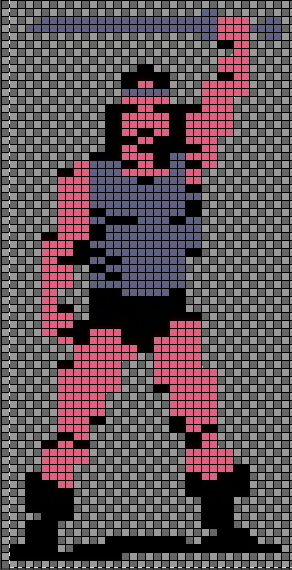
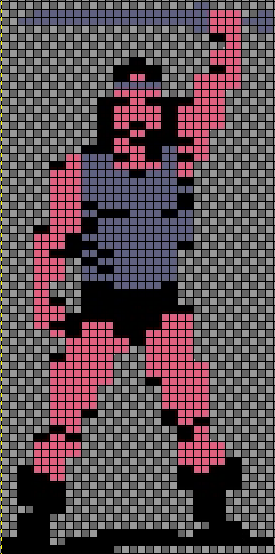
<- SwOrD & hEaD = dOnE ! ->

diff --git a/SCRIPT/style.css b/SCRIPT/style.css
@@ -1,8 +1,293 @@
 .container
 {
 	display: grid;
-	grid-gap: 1px;
+	grid-gap: 0px;
 	background-color: lightgrey;
 	height: 95vh;
 	grid-template-areas:
+	'.   .   .   .   .   .   .   .   .   .   .   .   .   .   .   .   .   .   .   .   .   .   .   .   .   g1  g1  .   .   .   .   .   .   .   .   '
+	'.   .   .   .   g2  g2  g2  g2  g2  g2  g2  g2  g2  g2  g2  g2  g2  g2  g2  g2  g2  g2  g2  g2  g2  g1  g1  p1  p1  p1  p1  .   .   g3  g3  '
+	'.   .   g4  g4  g4  g4  g4  g4  g4  g4  g4  g4  g4  g4  g4  g4  g4  g4  g4  g4  g4  g4  g4  g4  g4  g1  g1  p1  p1  p1  p1  g5  g5  g3  g3  '
+	'.   .   .   .   .   .   .   .   .   .   .   .   .   .   .   .   .   .   .   .   .   .   .   .   .   g1  g1  p1  p1  p1  p1  .   .   g3  g3  '
+	'.   .   .   .   .   .   .   .   .   .   .   .   .   .   .   .   .   .   .   .   .   .   .   .   .   .   .   b1  b1  p2  p2  .   .   .   .   '
+	'.   .   .   .   .   .   .   .   .   .   .   .   .   .   .   .   .   .   .   .   .   .   .   .   .   .   .   .   .   p2  p2  .   .   .   .   '
+	'.   .   .   .   .   .   .   .   .   .   .   .   .   .   .   .   .   .   .   .   .   .   .   .   .   .   .   p3  p3  p2  p2  .   .   .   .   '
+	'.   .   .   .   .   .   .   .   .   .   .   .   .   .   .   .   .   b2  b2  .   .   .   .   .   .   .   .   p3  p3  p2  p2  .   .   .   .   '
+	'.   .   .   .   .   .   .   .   .   .   .   .   .   .   .   b3  b3  b3  b3  b3  b3  .   .   .   .   .   .   b4  b4  p2  p2  .   .   .   .   '
+	'.   .   .   .   .   .   .   .   .   .   .   .   .   .   .   b5  b5  p4  p4  b6  b6  .   .   .   .   p5  p5  p5  p5  p2  p2  .   .   .   .   '
+	'.   .   .   .   .   .   .   .   .   .   .   .   .   .   .   g6  g6  g6  g6  g6  g6  .   .   .   .   p5  p5  p5  p5  p2  p2  .   .   .   .   '
+	'.   .   .   .   .   .   .   .   .   .   .   .   .   .   .   p6  p6  p6  p6  p6  p6  .   .   .   .   p5  p5  p5  p5  .   .   .   .   .   .   '
+	'.   .   .   .   .   .   .   .   .   .   .   .   .   b7  b7  b8  b8  p7  p7  b9  b9  b9  b9  b9  b9  p5  p5  p5  p5  .   .   .   .   .   .   '
+	'.   .   .   .   .   .   .   .   .   .   .   .   .   b7  b7  p8  p8  p8  p8  p8  p8  ba  ba  p9  p9  p5  p5  p5  p5  .   .   .   .   .   .   '
+	'.   .   .   .   .   .   .   .   .   .   .   .   .   b7  b7  p8  p8  p8  p8  p8  p8  ba  ba  p9  p9  p5  p5  p5  p5  .   .   .   .   .   .   '
+	'.   .   .   .   .   .   .   .   .   .   .   .   .   b7  b7  pa  pa  bb  bb  pb  pb  ba  ba  p9  p9  p5  p5  p5  p5  .   .   .   .   .   .   '
+	'.   .   .   .   .   .   .   .   .   .   .   .   .   b7  b7  bc  bc  pc  pc  bd  bd  ba  ba  p9  p9  pd  pd  .   .   .   .   .   .   .   .   '
+	'.   .   .   .   .   .   .   .   .   .   .   .   .   b7  b7  pe  pe  be  be  bd  bd  ba  ba  bf  bf  pd  pd  .   .   .   .   .   .   .   .   '
+	'.   .   .   .   .   .   .   .   .   .   .   bg  bg  b7  b7  pe  pe  pf  pf  bd  bd  g7  g7  pg  pg  pd  pd  .   .   .   .   .   .   .   .   '
+	'.   .   .   .   .   .   .   .   .   ph  ph  g8  g8  g8  g8  bh  bh  pf  pf  bd  bd  g7  g7  bi  bi  pd  pd  .   .   .   .   .   .   .   .   '
+	
+	;
+}
+
+
+										/*		<-- GrEy DiV -->		*/
+
+
+#g1
+{
+	background-color: grey;
+	grid-area: g1;
+}
+
+#g2
+{
+	background-color: grey;
+	grid-area: g2;
+}
+
+#g3
+{
+	background-color: grey;
+	grid-area: g3;
+}
+
+#g4
+{
+	background-color: grey;
+	grid-area: g4;
+}
+
+#g5
+{
+	background-color: grey;
+	grid-area: g5;
+}
+
+#g6
+{
+	background-color: grey;
+	grid-area: g6;
+}
+
+#g7
+{
+	background-color: grey;
+	grid-area: g7;
+}
+
+#g8
+{
+	background-color: grey;
+	grid-area: g8;
+}
+
+
+										/*		<-- PeAcH dIv -->		*/
+
+
+#p1
+{
+	background-color: salmon;
+	grid-area: p1;
+}
+
+#p2
+{
+	background-color: salmon;
+	grid-area: p2;
+}
+
+#p3
+{
+	background-color: salmon;
+	grid-area: p3;
+}
+
+#p4
+{
+	background-color: salmon;
+	grid-area: p4;
+}
+
+#p5
+{
+	background-color: salmon;
+	grid-area: p5;
+}
+
+#p6
+{
+	background-color: salmon;
+	grid-area: p6;
+}
+
+#p7
+{
+	background-color: salmon;
+	grid-area: p7;
+}
+
+#p8
+{
+	background-color: salmon;
+	grid-area: p8;
+}
+
+#p9
+{
+	background-color: salmon;
+	grid-area: p9;
+}
+
+#pa
+{
+	background-color: salmon;
+	grid-area: pa;
+}
+
+#pb
+{
+	background-color: salmon;
+	grid-area: pb;
+}
+
+#pc
+{
+	background-color: salmon;
+	grid-area: pc;
+}
+
+#pd
+{
+	background-color: salmon;
+	grid-area: pd;
+}
+
+#pe
+{
+	background-color: salmon;
+	grid-area: pe;
+}
+
+#pf
+{
+	background-color: salmon;
+	grid-area: pf;
+}
+
+#pg
+{
+	background-color: salmon;
+	grid-area: pg;
+}
+
+
+										/*		<-- BlAcK DiV -->		*/
+
+#b1
+{
+	background-color: black;
+	grid-area: b1;
+}
+
+#b2
+{
+	background-color: black;
+	grid-area: b2;
+}
+
+#b3
+{
+	background-color: black;
+	grid-area: b3;
+}
+
+#b4
+{
+	background-color: black;
+	grid-area: b4;
+}
+
+#b5
+{
+	background-color: black;
+	grid-area: b5;
+}
+
+#b6
+{
+	background-color: black;
+	grid-area: b6;
+}
+
+#b7
+{
+	background-color: black;
+	grid-area: b7;
+}
+
+#b8
+{
+	background-color: black;
+	grid-area: b8;
+}
+
+#b9
+{
+	background-color: black;
+	grid-area: b9;
+}
+
+#ba
+{
+	background-color: black;
+	grid-area: ba;
+}
+
+#bb
+{
+	background-color: black;
+	grid-area: bb;
+}
+
+#bc
+{
+	background-color: black;
+	grid-area: bc;
+}
+
+#bd
+{
+	background-color: black;
+	grid-area: bd;
+}
+
+#be
+{
+	background-color: black;
+	grid-area: be;
+}
+
+#bf
+{
+	background-color: black;
+	grid-area: bf;
+}
+
+#bg
+{
+	background-color: black;
+	grid-area: bg;
+}
+
+#bh
+{
+	background-color: black;
+	grid-area: bh;
+}
+
+#bi
+{
+	background-color: black;
+	grid-area: bi;
 }

diff --git a/index.html b/index.html
@@ -1,11 +1,56 @@
-<!DOCTYPE html>
+<!DOCTYPE html> 													<!-- GllmR! -->
 <html lang="en">
 <head>
 	<meta charset="UTF-8">
+	<link rel="stylesheet" href="./SCRIPT/style.css">
 	<title>BarbCSSGrid</title>
 </head>
 <body>
-	<div id=container>
+	<div class=container>
+
+		<div id=g1></div>
+		<div id=g2></div>
+		<div id=g3></div>
+		<div id=g4></div>
+		<div id=g5></div>
+		<div id=g6></div>
+		<div id=g7></div>
+		<div id=g8></div>
+		<div id=p1></div>
+		<div id=p2></div>
+		<div id=p3></div>
+		<div id=p4></div>
+		<div id=p5></div>
+		<div id=p6></div>
+		<div id=p7></div>
+		<div id=p8></div>
+		<div id=p9></div>
+		<div id=pa></div>
+		<div id=pb></div>
+		<div id=pc></div>
+		<div id=pd></div>
+		<div id=pe></div>
+		<div id=pf></div>
+		<div id=pg></div>
+		<div id=b1></div>
+		<div id=b2></div>
+		<div id=b3></div>
+		<div id=b4></div>
+		<div id=b5></div>
+		<div id=b6></div>
+		<div id=b7></div>
+		<div id=b8></div>
+		<div id=b9></div>
+		<div id=ba></div>
+		<div id=bb></div>
+		<div id=bc></div>
+		<div id=bd></div>
+		<div id=be></div>
+		<div id=bf></div>
+		<div id=bg></div>
+		<div id=bh></div>
+		<div id=bi></div>
+
 	</div>
 </body>
 </html>
